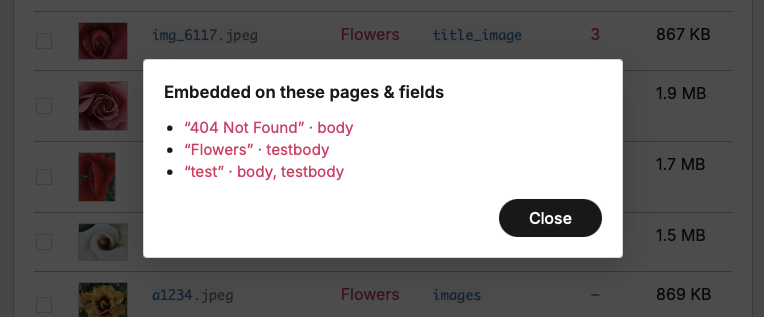
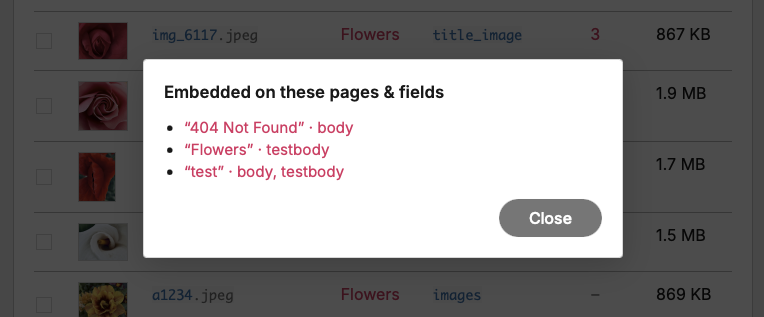
ui: make the rename-done Close button secondary; refresh screenshots
Audited every modal dialog (JS + PHP). The only dismiss button still on
primary was renameSummaryDialog's Close — now uk-button-secondary, so all
Cancel/Close buttons are consistently secondary and only real actions
(Save/OK/Delete/Rename anyway/Apply) are primary.

Refresh the three screenshots that showed the old button colours:
inline-edit popup, rename-done, used-in dialog.

Changed region(s): [[0.6322, 0.6246, 0.8128, 0.7666]]

diff --git a/ProcessImageLibrary.js b/ProcessImageLibrary.js
@@ -2575,7 +2575,7 @@
 			var footer = document.createElement('footer');
 			var okBtn = document.createElement('button');
 			okBtn.type = 'button';
-			okBtn.className = 'uk-button uk-button-primary';
+			okBtn.className = 'uk-button uk-button-secondary';
 			okBtn.textContent = labels.close || 'Close';
 			footer.appendChild(okBtn);
 			dialog.appendChild(footer);